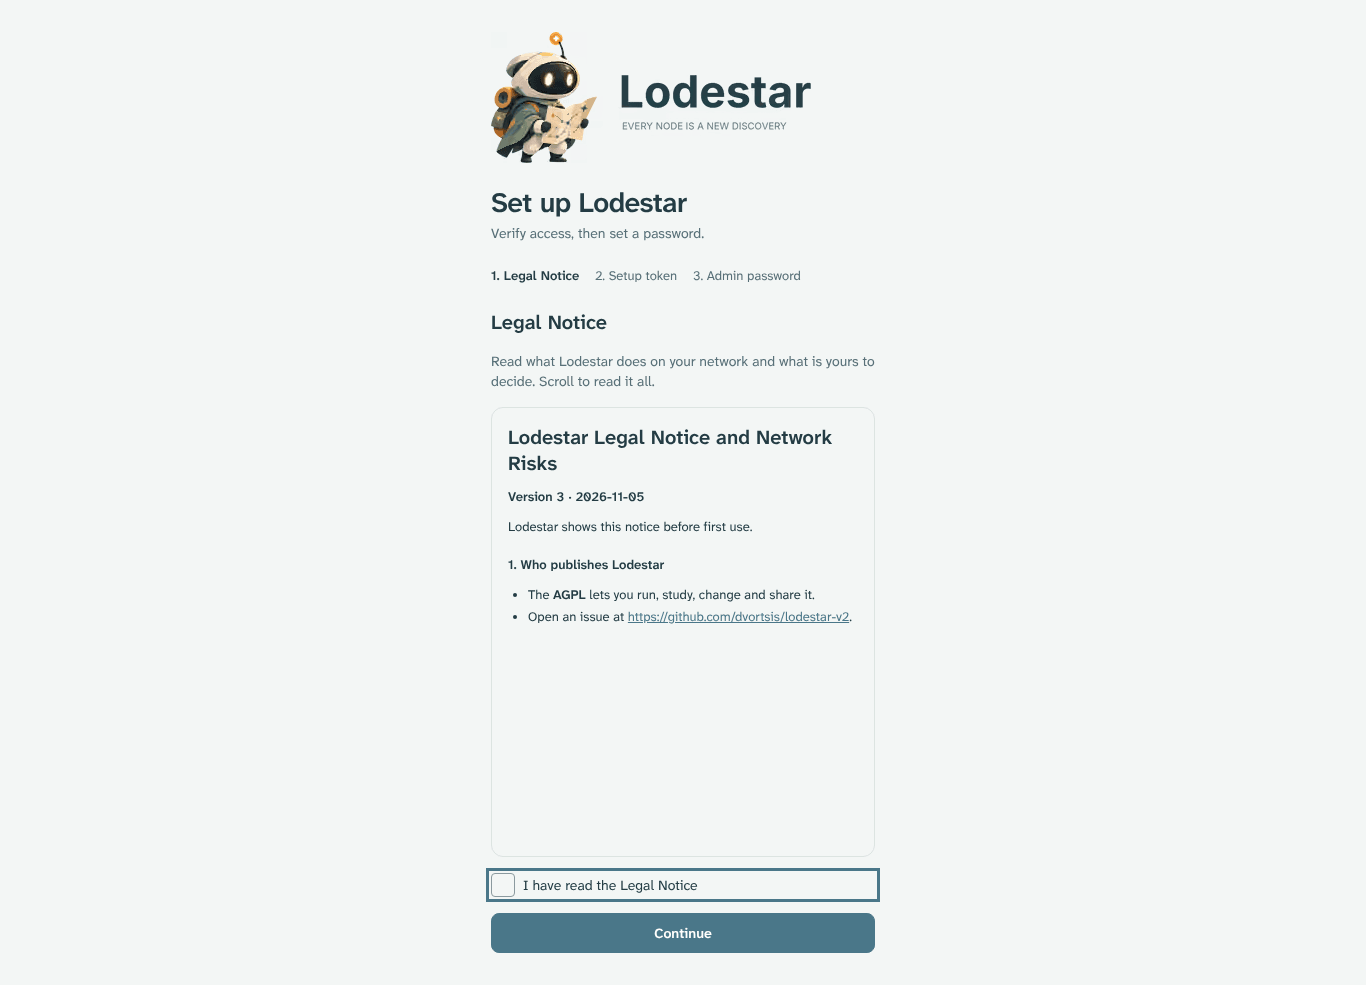
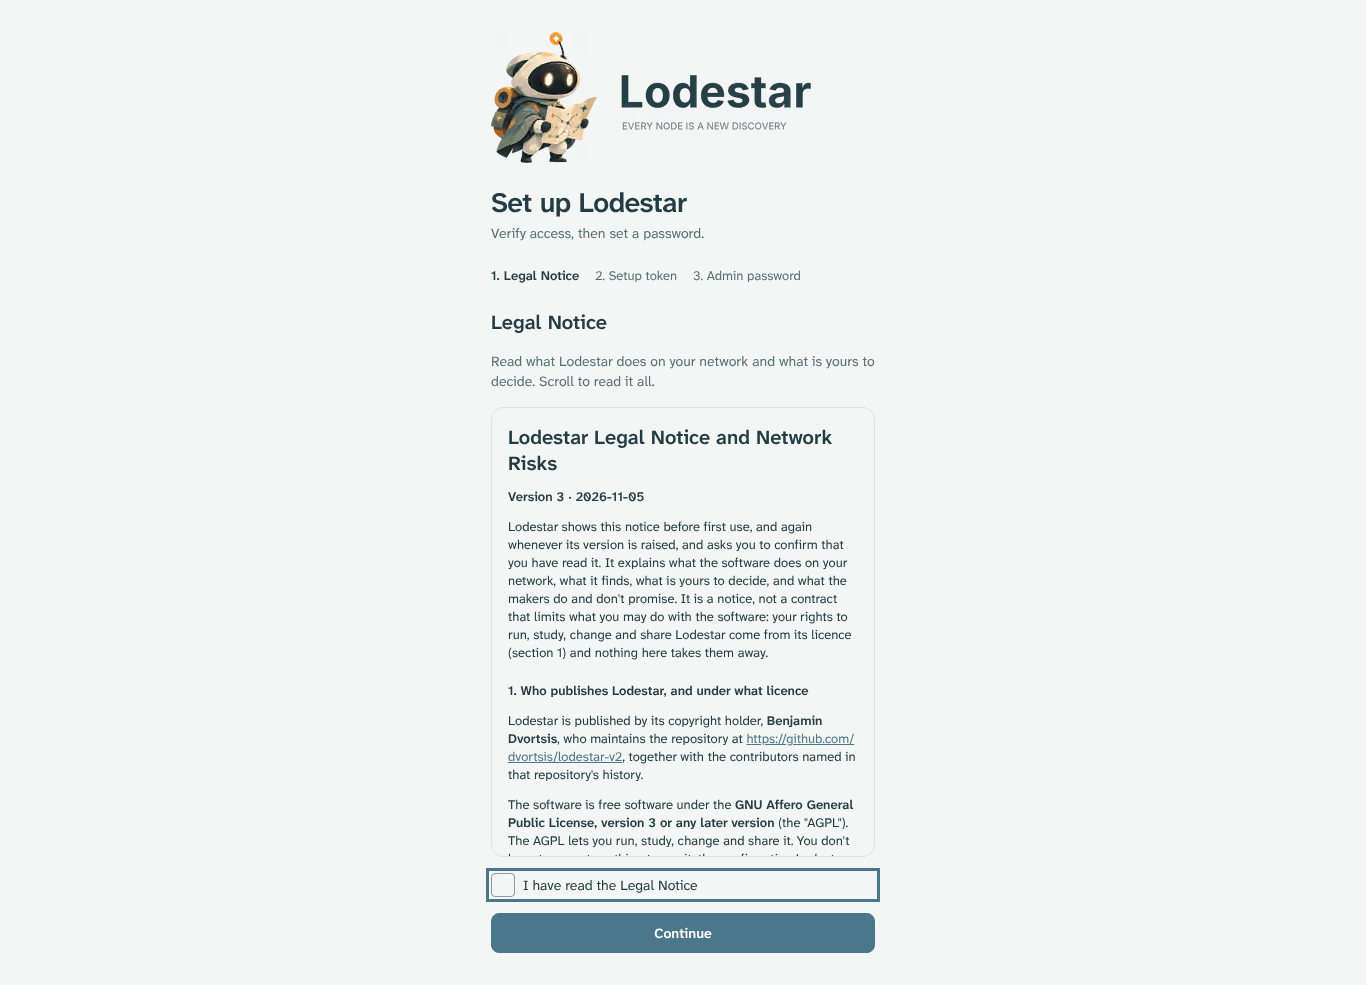
Answer the self-review: notice fetch, focus, headings, docs
A fresh review found no blocking issues. Fixes for what it raised:
- The open notice is fetched outside the API client, so loading it no
  longer marks a signed-out /setup visitor (or a pending gate) as
  signed in, which also skipped the account's region refetch.
- Signing in that hands over to the notice gate moves focus to the
  notice once loaded, as the setup step does.
- The notice's headings nest under the screen's own (a level prop).
- The docs shot shows the real notice; the README no longer calls
  the setup step planned; the box height uses svh; small copy, title
  and comment fixes; the font-wait timer is cleared.

Claude-Session: https://claude.ai/code/session_01MMjhnCPhmxpaJb3JmtzPS1

Changed region(s): [[0.369, 0.7005, 0.6149, 0.8832], [0.369, 0.5178, 0.6149, 0.6701]]

diff --git a/web/src/lib/features/auth/notice.ts b/web/src/lib/features/auth/notice.ts
@@ -1,18 +1,27 @@
 // The Legal Notice (owner decision §2.38): fetched from the server, which builds it in, once per
 // page load. Setup sends its version with the password; the sign-in gate accepts it.
-import { api } from '$lib/api/client';
+import { api, errorFromResponse } from '$lib/api/client';
 import type { components } from '$lib/api/schema';
 
 export type LegalNotice = components['schemas']['LegalNotice'];
 
 let cached: Promise<LegalNotice> | undefined;
 
-/** The notice; a failed fetch isn't cached, so the next call tries again. */
+/**
+ * The notice; a failed fetch isn't cached, so the next call tries again. Fetched directly, not
+ * through `api`: it's open, so its answer proves nothing about the session, and `api` would mark
+ * the tab signed in (a signed-out visitor of /setup, or the sign-in gate before Accept).
+ */
 export function loadNotice(): Promise<LegalNotice> {
-	cached ??= api.get('/legal/notice').catch((e: unknown) => {
-		cached = undefined;
-		throw e;
-	});
+	cached ??= fetch('/api/v1/legal/notice', { headers: { Accept: 'application/json' } })
+		.then(async (r) => {
+			if (!r.ok) throw await errorFromResponse(r);
+			return (await r.json()) as LegalNotice;
+		})
+		.catch((e: unknown) => {
+			cached = undefined;
+			throw e;
+		});
 	return cached;
 }
 
@@ -28,13 +37,14 @@ export const FONT_WAIT_MS = 2000;
 export function fontsSettled(): Promise<void> {
 	const fonts = typeof document === 'undefined' ? undefined : document.fonts;
 	if (!fonts?.load) return Promise.resolve();
+	let timer: ReturnType<typeof setTimeout> | undefined;
 	return Promise.race([
 		fonts.load('400 1em "Atkinson Hyperlegible Next"', 'Lodestar').then(
 			() => {},
 			() => {}
 		),
-		new Promise<void>((resolve) => setTimeout(resolve, FONT_WAIT_MS))
-	]);
+		new Promise<void>((resolve) => (timer = setTimeout(resolve, FONT_WAIT_MS)))
+	]).finally(() => clearTimeout(timer));
 }
 
 /** Records that the signed-in admin accepted `version`. */

diff --git a/web/src/lib/features/auth/NoticeGate.svelte b/web/src/lib/features/auth/NoticeGate.svelte
@@ -2,7 +2,7 @@
 	// The sign-in gate (owner decision §2.38): signed in, but this instance hasn't accepted the
 	// current Legal Notice (set up before it existed, or its version was raised). Every other
 	// request answers 409 notice_required until Accept records it; then on to `next`.
-	import { onDestroy } from 'svelte';
+	import { onDestroy, tick } from 'svelte';
 	import Button from '$lib/ui/controls/Button.svelte';
 	import { m } from '$lib/paraglide/messages.js';
 	import { createAuthForm } from './form.svelte';
@@ -13,13 +13,24 @@
 
 	interface Props {
 		next: string;
+		/** Move focus to the notice once it has loaded: after sign-in replaced the form. */
+		focusOnLoad?: boolean;
 	}
 
-	let { next }: Props = $props();
+	let { next, focusOnLoad = false }: Props = $props();
 
 	const form = createAuthForm();
 	onDestroy(form.destroy);
 	let notice = $state<LegalNotice | null>(null);
+	let root = $state<HTMLFormElement>();
+	let focused = false;
+	$effect(() => {
+		if (!notice || !focusOnLoad || focused) return;
+		focused = true;
+		void tick().then(() =>
+			root?.querySelector<HTMLElement>('[data-testid="legal-notice"]')?.focus()
+		);
+	});
 
 	async function onsubmit(event: SubmitEvent) {
 		event.preventDefault();
@@ -35,7 +46,14 @@
 	}
 </script>
 
-<form method="post" class="flex flex-col gap-4" novalidate {onsubmit} data-testid="notice-gate">
+<form
+	bind:this={root}
+	method="post"
+	class="flex flex-col gap-4"
+	novalidate
+	{onsubmit}
+	data-testid="notice-gate"
+>
 	<NoticeBox bind:notice />
 	<FormAlert {form} />
 	{#if form.state.name === 'error' && form.state.failure.kind === 'notice_required'}

diff --git a/web/src/lib/features/auth/forms.test.ts b/web/src/lib/features/auth/forms.test.ts
@@ -219,7 +219,9 @@ describe('SetupForm', () => {
 		const region = screen.getByRole('region', { name: 'Legal Notice' });
 		expect(region.getAttribute('tabindex')).toBe('0');
 		expect(region.className).toContain('overflow-y-auto');
-		expect(screen.getByRole('heading', { level: 3, name: '1. Who' })).toBeTruthy();
+		// Under the step's own h2: the notice's title is h3, its sections h4.
+		expect(screen.getByRole('heading', { level: 3, name: 'Lodestar Legal Notice' })).toBeTruthy();
+		expect(screen.getByRole('heading', { level: 4, name: '1. Who' })).toBeTruthy();
 		expect(region.querySelectorAll('li')).toHaveLength(2);
 		expect(region.querySelector('strong')!.textContent).toBe('Version 2 · 2026-11-04');
 		expect(readBox().checked).toBe(false);
@@ -376,6 +378,16 @@ describe('LoginForm and the Legal Notice', () => {
 
 describe('NoticeGate', () => {
 	const accept = () => screen.getByRole('button', { name: 'I have read it, continue' });
+
+	it('takes focus to the notice when sign-in handed over, and not on first paint', async () => {
+		const first = render(NoticeGate, { next: '/' });
+		const region = await screen.findByRole('region', { name: 'Legal Notice' });
+		expect(document.activeElement).not.toBe(region);
+		first.unmount();
+		render(NoticeGate, { next: '/', focusOnLoad: true });
+		const again = await screen.findByRole('region', { name: 'Legal Notice' });
+		await waitFor(() => expect(document.activeElement).toBe(again));
+	});
 
 	it('accepts the version it showed, then goes on to next', async () => {
 		render(NoticeGate, { next: '/search?q=a' });

diff --git a/web/src/lib/features/auth/LegalNotice.svelte b/web/src/lib/features/auth/LegalNotice.svelte
@@ -10,9 +10,11 @@
 		label: string;
 		/** Scroll inside a box (setup, sign-in) or flow with the page (About). */
 		scroll?: boolean;
+		/** The level the notice's own `#` heading takes, below the page's headings; `##` is one lower. */
+		level?: 2 | 3;
 	}
 
-	let { text, label, scroll = true }: Props = $props();
+	let { text, label, scroll = true, level = 2 }: Props = $props();
 	const blocks = $derived(parseBlocks(text));
 	const LINK = 'ls-focus break-all text-primary underline';
 </script>
@@ -46,10 +48,15 @@
 	]}
 >
 	{#each blocks as b, i (i)}
-		{#if b.t === 'heading' && b.level === 1}
+		{#if b.t === 'heading' && b.level === 1 && level === 2}
 			<h2 class="text-title font-semibold">{@render inlines(b.c)}</h2>
+		{:else if b.t === 'heading' && (b.level === 1 || level === 2)}
+			<!-- `#` under a screen heading, or `##` on its own page -->
+			<h3 class={b.level === 1 ? 'text-title font-semibold' : 'mt-2 font-semibold'}>
+				{@render inlines(b.c)}
+			</h3>
 		{:else if b.t === 'heading'}
-			<h3 class="mt-2 font-semibold">{@render inlines(b.c)}</h3>
+			<h4 class="mt-2 font-semibold">{@render inlines(b.c)}</h4>
 		{:else if b.t === 'ul'}
 			<ul class="flex list-disc flex-col gap-1 pl-5">
 				{#each b.items as item, j (j)}

diff --git a/web/e2e/docs/shots.docs.ts b/web/e2e/docs/shots.docs.ts
@@ -2,6 +2,7 @@
 // Run with `npm run docs:shots`: the opt-in `docs` project, over the mock fixture data, Riverstone,
 // 1366 wide, the clock frozen. Each shot lands in `docs/user/images/<page>-<step>.png`, optimised by
 // `./capture.ts`. Excluded from the default run and from CI.
+import { readFileSync } from 'node:fs';
 import type { Page } from '@playwright/test';
 import type { components } from '../../src/lib/api/schema';
 import { discoverResponse, showAdultSettings } from '../../src/lib/features/discover/testing';
@@ -147,6 +148,12 @@ test.describe('setup', () => {
 	// Setup opens on the Legal Notice (LEGAL-1); the token step follows it.
 	test('setup-notice', async ({ page, go, mock }) => {
 		mock.on('getAuthStatus', { logged_in: false, notice_required: false, setup_required: true });
+		// The real notice, as the binary builds it in, so the box shows what a reader will scroll.
+		const text = readFileSync(
+			new URL('../../../docs/legal/legal-notice.md', import.meta.url),
+			'utf8'
+		);
+		mock.on('getLegalNotice', { version: 3, text });
 		await go('/setup');
 		await expect(page.getByRole('region', { name: 'Legal Notice' })).toBeVisible();
 		await ready(page);

diff --git a/web/src/lib/features/auth/notice.test.ts b/web/src/lib/features/auth/notice.test.ts
@@ -1,6 +1,7 @@
 // The notice waits for the UI font so it never reflows on screen, but never longer than the cap.
 import { afterEach, expect, it, vi } from 'vitest';
-import { FONT_WAIT_MS, fontsSettled } from './notice';
+import { onSessionOk } from '$lib/api/client';
+import { FONT_WAIT_MS, fontsSettled, loadNotice, resetNoticeCache } from './notice';
 
 afterEach(() => {
 	vi.useRealTimers();
@@ -40,4 +41,18 @@ it('stops waiting after the cap when the font never arrives', async () => {
 it('shows the notice anyway when the font fails to load', async () => {
 	withFonts(() => Promise.reject(new Error('blocked')));
 	await expect(fontsSettled()).resolves.toBeUndefined();
+});
+
+it('loads the open notice without counting it as proof of a session', async () => {
+	resetNoticeCache();
+	const ok = vi.fn();
+	const off = onSessionOk(ok);
+	vi.stubGlobal(
+		'fetch',
+		vi.fn(async () => new Response(JSON.stringify({ version: 3, text: '# N' }), { status: 200 }))
+	);
+	await expect(loadNotice()).resolves.toEqual({ version: 3, text: '# N' });
+	expect(ok).not.toHaveBeenCalled();
+	off();
+	vi.unstubAllGlobals();
 });

diff --git a/web/src/routes/login/+page.svelte b/web/src/routes/login/+page.svelte
@@ -10,6 +10,8 @@
 	const next = $derived(safeNext(page.url.searchParams.get('next'), page.url.origin));
 	// Signed in, but the Legal Notice must be accepted first (owner decision §2.38).
 	let notice = $state(false);
+	// Handed over by signing in: focus follows to the notice (not on first paint).
+	let handover = $state(false);
 	const title = $derived(notice ? m.auth_notice_title() : m.auth_login_title());
 </script>
 
@@ -18,9 +20,9 @@
 <AuthPage {title} lead={notice ? m.auth_notice_lead() : m.auth_login_lead()}>
 	<AuthGate page="login" {next} onstatus={(s) => (notice = s?.notice_required === true)}>
 		{#if notice}
-			<NoticeGate {next} />
+			<NoticeGate {next} focusOnLoad={handover} />
 		{:else}
-			<LoginForm {next} onnotice={() => (notice = true)} />
+			<LoginForm {next} onnotice={() => ((handover = true), (notice = true))} />
 		{/if}
 	</AuthGate>
 </AuthPage>

diff --git a/web/src/lib/features/wizard/WizardPage.svelte b/web/src/lib/features/wizard/WizardPage.svelte
@@ -1,7 +1,7 @@
 <script lang="ts">
 	// The first-run wizard's shell (§10.10.10): stepped progress, one primary action per step, Back
-	// and Skip on the optional ones. The first steps (`SETUP_STEPS`) are done in /setup; the rest load on demand, one
-	// chunk each, and share this frame. Progress sits in sessionStorage so a reload resumes, and
+	// and Skip on the optional ones. The first steps (`SETUP_STEPS`) are done in /setup; the rest
+	// load on demand, one chunk each, and share this frame. Progress sits in sessionStorage so a reload resumes, and
 	// nothing else in the app waits on it.
 	import { tick, type Component } from 'svelte';
 	import { m } from '$lib/paraglide/messages.js';

diff --git a/web/src/lib/features/wizard/steps.ts b/web/src/lib/features/wizard/steps.ts
@@ -1,6 +1,6 @@
 // The wizard's steps and its progress (§10.10.10). The first steps happen in /setup, before there's
-// a session (`SETUP_STEPS`); `STEPS` holds the rest. Step 6 (import from bitmagnet) is still a hidden slot (online import is deferred,
-// B-import-server-2): `SLOTS` names where it goes, so adding it is a new entry here and a new
+// a session (`SETUP_STEPS`); `STEPS` holds the rest. §10.10.10's import step (from bitmagnet) is
+// still a hidden slot (online import is deferred, B-import-server-2): `SLOTS` names where it goes, so adding it is a new entry here and a new
 // loader in the shell, nothing else (docs/decisions/2026-10-31-S-wizard.md).
 
 export type StepId =

diff --git a/web/src/lib/features/auth/NoticeBox.svelte b/web/src/lib/features/auth/NoticeBox.svelte
@@ -10,9 +10,11 @@
 	interface Props {
 		notice?: Notice | null;
 		scroll?: boolean;
+		/** See LegalNotice: 3 where a screen heading already names the notice. */
+		level?: 2 | 3;
 	}
 
-	let { notice = $bindable(null), scroll = true }: Props = $props();
+	let { notice = $bindable(null), scroll = true, level = 2 }: Props = $props();
 	let failed = $state(false);
 	let loading = false;
 
@@ -37,7 +39,7 @@
 </script>
 
 {#if notice}
-	<LegalNotice text={notice.text} label={m.auth_notice_label()} {scroll} />
+	<LegalNotice text={notice.text} label={m.auth_notice_label()} {scroll} {level} />
 {:else if failed}
 	<Banner kind="error">
 		{m.auth_notice_failed()}

diff --git a/web/src/lib/features/settings/about/Legal.test.ts b/web/src/lib/features/settings/about/Legal.test.ts
@@ -23,7 +23,7 @@ it('shows the notice with its version', async () => {
 	const region = await screen.findByRole('region', { name: 'Legal Notice' });
 	expect(region.textContent).toContain('Who publishes Lodestar');
 	expect(screen.getByTestId('about-notice-version').textContent?.trim()).toBe('Version 2');
-	expect(screen.getByRole('heading', { level: 3, name: '1. Who publishes Lodestar' })).toBeTruthy();
+	expect(screen.getByRole('heading', { level: 4, name: '1. Who publishes Lodestar' })).toBeTruthy();
 });
 
 it('offers a retry when the notice cannot be loaded', async () => {

diff --git a/web/e2e/auth.routes.test.ts b/web/e2e/auth.routes.test.ts
@@ -112,7 +112,7 @@ test('first-run setup: the Legal Notice, a token from a pasted log line, passwor
 	expect(stored).not.toContain('correct horse');
 });
 
-test('a wrong setup token returns to step 1 with a clear error, never echoing the token', async ({
+test('a wrong setup token returns to the token step with a clear error, never echoing the token', async ({
 	page,
 	go,
 	mock
